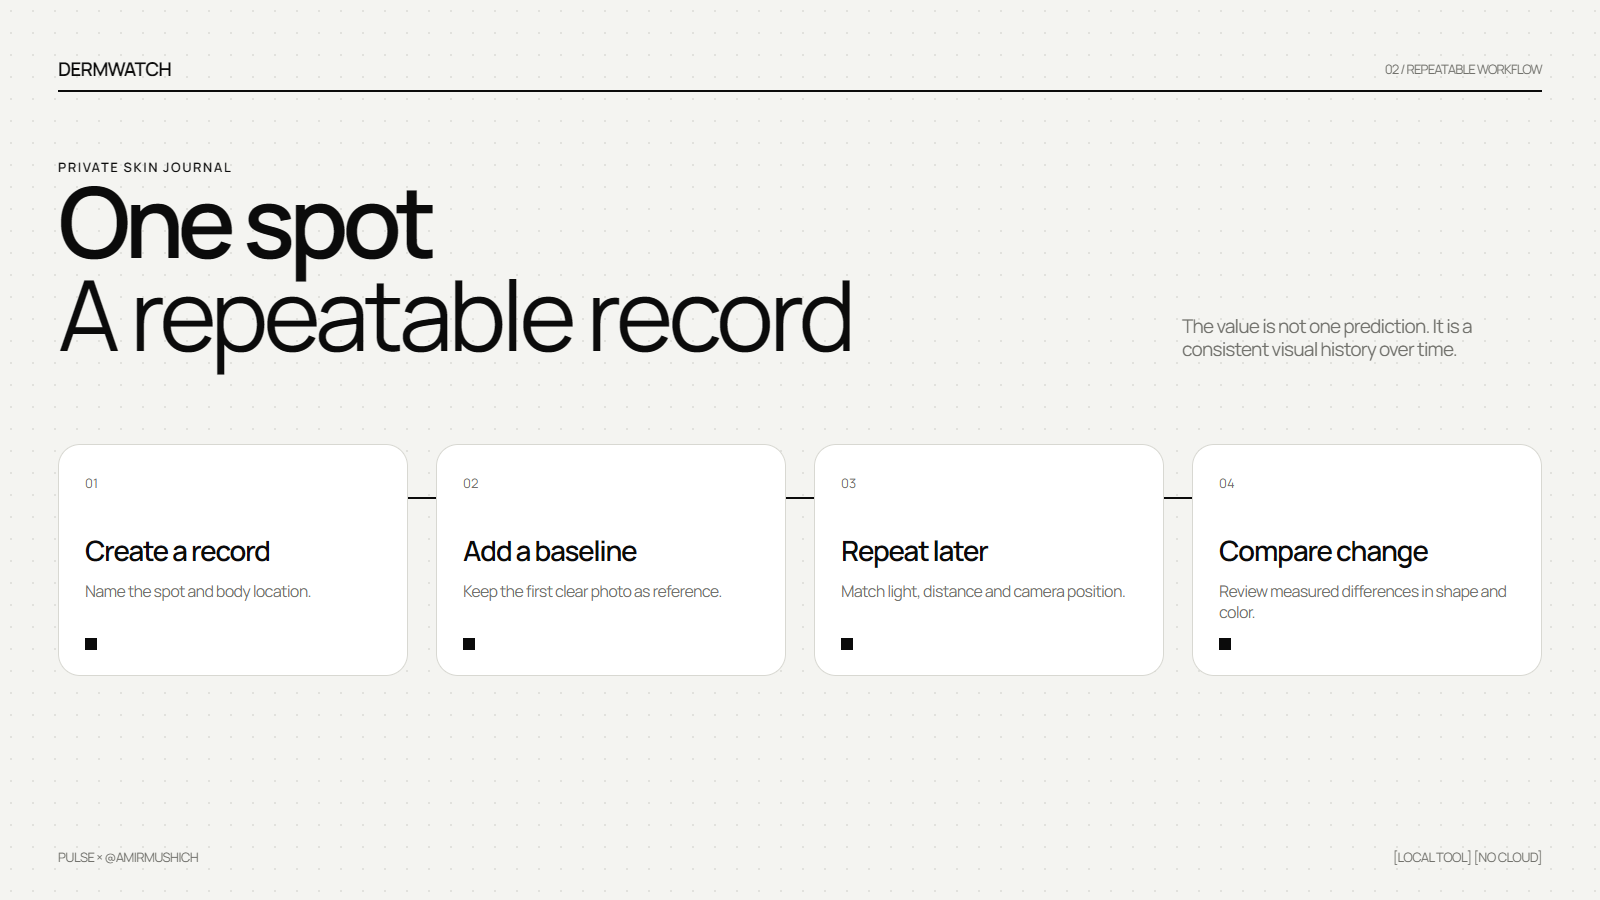
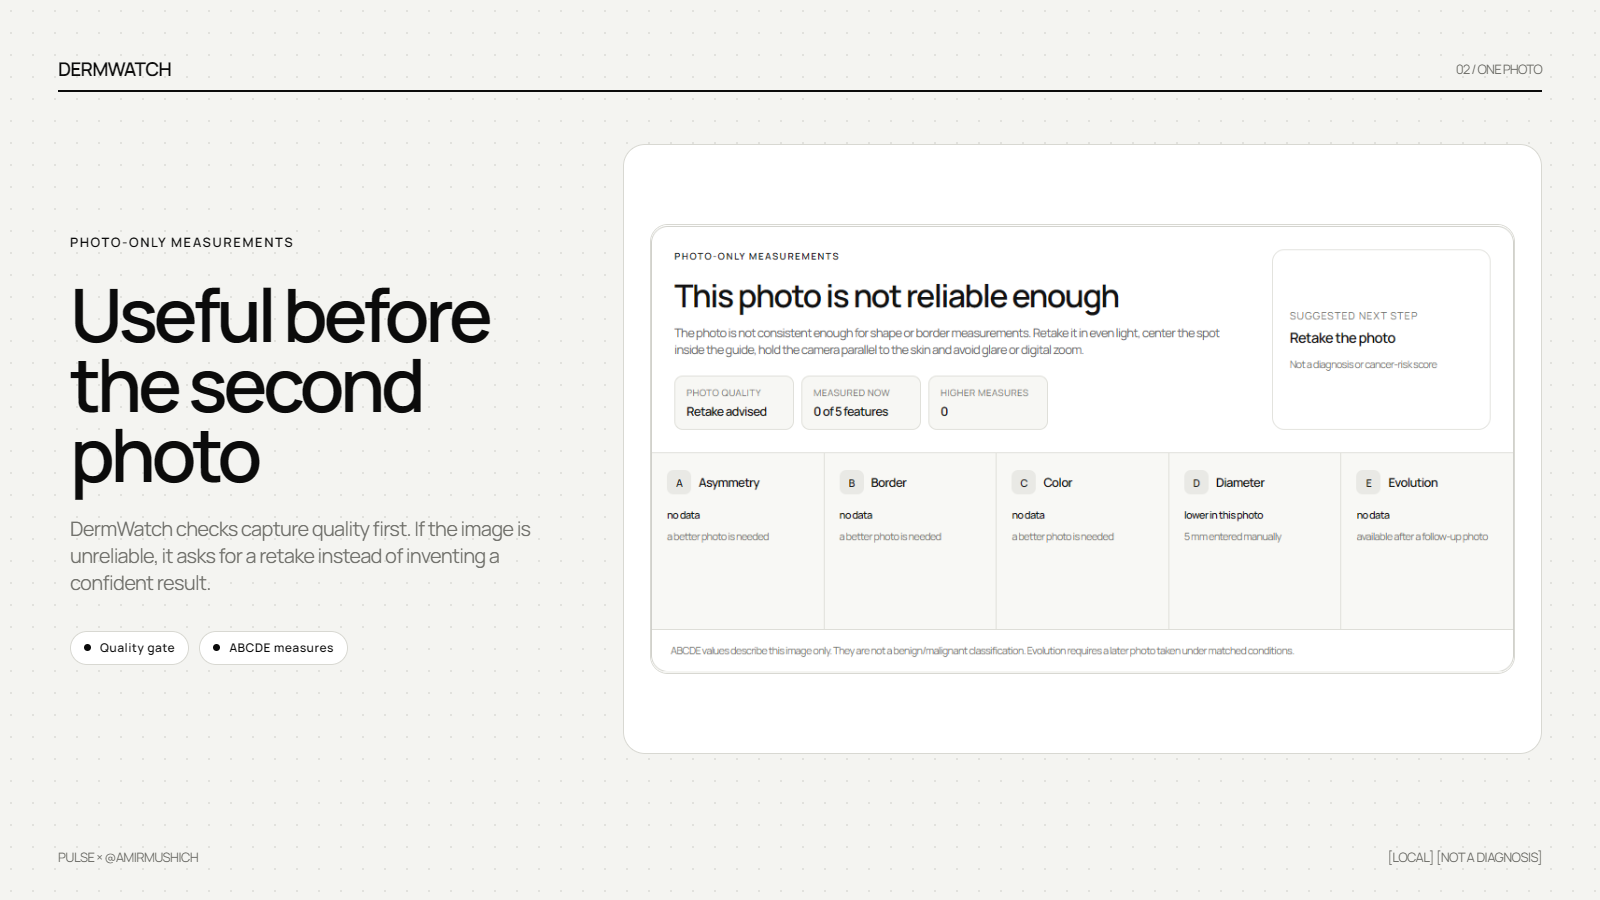
Update launch thread and visuals

diff --git a/docs/launch/visuals/03-transparency.html b/docs/launch/visuals/03-transparency.html
@@ -3,40 +3,31 @@
   <head>
     <meta charset="UTF-8" />
     <link rel="stylesheet" href="shared.css" />
-    <title>DermWatch transparency</title>
+    <title>DermWatch comparison guardrail</title>
     <style>
-      .hero { margin-top: 74px; display: grid; grid-template-columns: 1.45fr 0.75fr; gap: 72px; align-items: start; }
-      .headline { font-size: 108px; }
-      .status { padding: 30px; min-height: 300px; display: flex; flex-direction: column; justify-content: space-between; }
-      .status h2 { font-size: 31px; line-height: 1.05; letter-spacing: -0.05em; }
-      .status p { color: var(--muted); font-size: 17px; line-height: 1.3; letter-spacing: -0.04em; }
-      .truths { margin-top: 70px; display: grid; grid-template-columns: repeat(3, 1fr); border: 1px solid var(--line); border-radius: 22px; overflow: hidden; background: var(--surface); }
-      .truth { min-height: 155px; padding: 26px; border-right: 1px solid var(--line); }
-      .truth:last-child { border-right: 0; }
-      .truth h2 { margin-top: 26px; font-size: 25px; letter-spacing: -0.05em; }
-      .truth p { margin-top: 12px; color: var(--muted); font-size: 15px; line-height: 1.25; letter-spacing: -0.04em; }
+      .content { margin-top: 56px; }
+      .intro { display: flex; justify-content: space-between; align-items: end; }
+      .intro h1 { margin-top: 24px; max-width: 980px; font-size: 78px; line-height: 0.94; letter-spacing: -0.06em; }
+      .intro p { width: 420px; padding-bottom: 7px; color: var(--muted); font-size: 20px; line-height: 1.32; letter-spacing: -0.035em; }
+      .proof { margin-top: 54px; height: 330px; padding: 42px; display: flex; align-items: center; background: var(--surface); }
+      .proof img { width: 100%; height: auto; display: block; border: 1px solid var(--line); border-radius: 18px; }
+      .rule { margin-top: 28px; display: grid; grid-template-columns: repeat(3, 1fr); border-top: 1px solid var(--line); }
+      .rule div { padding-top: 20px; color: var(--muted); font-size: 15px; }
+      .rule strong { display: block; margin-bottom: 8px; color: var(--ink); font-size: 18px; }
     </style>
   </head>
   <body>
     <main class="frame">
-      <header class="topbar"><span>DERMWATCH</span><span class="meta">03 / TECHNICAL TRANSPARENCY</span></header>
-      <section class="hero">
-        <div>
-          <div class="eyebrow">WHAT IT IS — AND ISN'T</div>
-          <h1 class="headline">No hidden AI<br /><span class="accent">Not a cancer test</span></h1>
+      <header class="topbar"><span>DERMWATCH</span><span class="meta">03 / SAFER COMPARISON</span></header>
+      <section class="content">
+        <div class="intro">
+          <div><div class="eyebrow">NO FALSE EVOLUTION</div><h1>Bad photos do not become bad news</h1></div>
+          <p>Change is measured only when capture conditions are comparable enough.</p>
         </div>
-        <article class="card status">
-          <span class="tag">EXPERIMENTAL</span>
-          <h2>Measures visible image features</h2>
-          <p>DermWatch cannot detect or rule out skin cancer. A concerning spot should be assessed by a qualified clinician.</p>
-        </article>
+        <div class="card proof"><img src="assets/comparison-safety.png" alt="DermWatch blocks an unreliable comparison" /></div>
+        <div class="rule"><div><strong>01 Match the spot</strong>Identity check before comparison</div><div><strong>02 Match the capture</strong>Light, angle, distance and sharpness</div><div><strong>03 Compare later</strong>Same-day retakes are not evolution</div></div>
       </section>
-      <section class="truths">
-        <article class="truth"><span class="square"></span><h2>No LLM</h2><p>No text model is involved in photo analysis.</p></article>
-        <article class="truth"><span class="square"></span><h2>No pretrained classifier</h2><p>No medical model or model weights are bundled.</p></article>
-        <article class="truth"><span class="square"></span><h2>Local heuristics</h2><p>Deterministic measurements run on this computer.</p></article>
-      </section>
-      <footer class="footer"><span>PULSE × @AMIRMUSHICH</span><span>NOT A MEDICAL DEVICE</span></footer>
+      <footer class="footer"><span>PULSE × @AMIRMUSHICH</span><span>[RETAKE INSTEAD OF GUESSING]</span></footer>
     </main>
   </body>
 </html>

diff --git a/docs/launch/visuals/02-workflow.html b/docs/launch/visuals/02-workflow.html
@@ -3,37 +3,30 @@
   <head>
     <meta charset="UTF-8" />
     <link rel="stylesheet" href="shared.css" />
-    <title>DermWatch workflow</title>
+    <title>DermWatch single-photo check</title>
     <style>
-      .hero { margin-top: 66px; display: flex; justify-content: space-between; align-items: end; }
-      .headline { max-width: 910px; }
-      .hero-note { width: 360px; color: var(--muted); font-size: 19px; line-height: 1.25; letter-spacing: -0.04em; }
-      .flow { margin-top: 82px; display: grid; grid-template-columns: repeat(4, 1fr); gap: 28px; }
-      .flow-card { position: relative; min-height: 232px; padding: 26px; }
-      .flow-card:not(:first-child)::before { content: ""; position: absolute; left: -29px; top: 52px; width: 28px; height: 2px; background: var(--ink); }
-      .number { color: var(--muted); font-size: 13px; }
-      .flow-card h2 { margin-top: 43px; font-size: 28px; line-height: 1; letter-spacing: -0.05em; }
-      .flow-card p { margin-top: 17px; color: var(--muted); font-size: 16px; line-height: 1.28; letter-spacing: -0.04em; }
-      .flow-card .square { position: absolute; left: 26px; bottom: 25px; }
+      .content { margin-top: 52px; display: grid; grid-template-columns: 0.72fr 1.28fr; gap: 48px; align-items: center; }
+      .copy { padding-left: 12px; }
+      .copy h1 { margin-top: 28px; max-width: 560px; font-size: 74px; line-height: 0.94; letter-spacing: -0.06em; }
+      .copy p { margin-top: 28px; max-width: 520px; color: var(--muted); font-size: 20px; line-height: 1.34; letter-spacing: -0.035em; }
+      .proof { height: 610px; padding: 26px; display: flex; align-items: center; background: var(--surface); }
+      .proof img { width: 100%; height: auto; display: block; border: 1px solid var(--line); border-radius: 18px; }
+      .tags { margin-top: 34px; display: flex; flex-wrap: wrap; gap: 10px; }
     </style>
   </head>
   <body>
     <main class="frame">
-      <header class="topbar"><span>DERMWATCH</span><span class="meta">02 / REPEATABLE WORKFLOW</span></header>
-      <section class="hero">
-        <div>
-          <div class="eyebrow">PRIVATE SKIN JOURNAL</div>
-          <h1 class="headline">One spot<br /><span class="accent">A repeatable record</span></h1>
+      <header class="topbar"><span>DERMWATCH</span><span class="meta">02 / ONE PHOTO</span></header>
+      <section class="content">
+        <div class="copy">
+          <div class="eyebrow">PHOTO-ONLY MEASUREMENTS</div>
+          <h1>Useful before the second photo</h1>
+          <p>DermWatch checks capture quality first. If the image is unreliable, it asks for a retake instead of inventing a confident result.</p>
+          <div class="tags"><span class="tag">Quality gate</span><span class="tag">ABCDE measures</span></div>
         </div>
-        <p class="hero-note">The value is not one prediction. It is a consistent visual history over time.</p>
+        <div class="card proof"><img src="assets/single-photo-result.png" alt="DermWatch single-photo quality result" /></div>
       </section>
-      <section class="flow">
-        <article class="card flow-card"><span class="number">01</span><h2>Create a record</h2><p>Name the spot and body location.</p><span class="square"></span></article>
-        <article class="card flow-card"><span class="number">02</span><h2>Add a baseline</h2><p>Keep the first clear photo as reference.</p><span class="square"></span></article>
-        <article class="card flow-card"><span class="number">03</span><h2>Repeat later</h2><p>Match light, distance and camera position.</p><span class="square"></span></article>
-        <article class="card flow-card"><span class="number">04</span><h2>Compare change</h2><p>Review measured differences in shape and color.</p><span class="square"></span></article>
-      </section>
-      <footer class="footer"><span>PULSE × @AMIRMUSHICH</span><span>[LOCAL TOOL] [NO CLOUD]</span></footer>
+      <footer class="footer"><span>PULSE × @AMIRMUSHICH</span><span>[LOCAL] [NOT A DIAGNOSIS]</span></footer>
     </main>
   </body>
 </html>

diff --git a/docs/launch/visuals/04-open-source.html b/docs/launch/visuals/04-open-source.html
@@ -24,8 +24,8 @@
         <div class="copy">
           <div>
             <div class="eyebrow">WINDOWS + MACOS + ANDROID / MIT LICENSE</div>
-            <h1>Open<br />Local<br /><span class="accent">Free</span></h1>
-            <p>Choose your platform. Keep the photo history on your device. Inspect the source on GitHub.</p>
+            <h1>Three<br />platforms<br /><span class="accent">One local record</span></h1>
+            <p>Windows, macOS and Android. Keep the photo history on your device and inspect the source on GitHub.</p>
           </div>
           <div class="cta"><strong>github.com/amirmushichge/dermwatch</strong><span>DOWNLOAD. RUN LOCALLY. BUILD A REPEATABLE RECORD_</span></div>
         </div>

diff --git a/docs/launch/THREAD_RU.md b/docs/launch/THREAD_RU.md
@@ -1,57 +1,57 @@
-# DermWatch launch thread — Russian review copy
+# DermWatch launch thread — Russian publication copy
 
-The main product-demo video is attached to post 1. Static visuals are paired
-with posts 2–4.
+Публикуйте как цепочку из четырёх постов. К первому посту прикрепите готовую
+видеодемонстрацию, к постам 2–4 — указанные изображения.
 
-## Post 1 — hook + video demo
+## Пост 1 — боль, решение и видео
 
-Одна родинка → повторяемая история изменений на вашем устройстве.
+Большинство людей фотографируют родинку один раз — а через месяц не помнят, изменилась ли она.
 
-DermWatch сохраняет базовый снимок, помогает повторить фото позже и показывает
-измеримые визуальные различия.
+DermWatch превращает отдельные снимки в локальную историю: сохраняет базовое фото, помогает повторить кадр и сравнивает изменения.
 
-[LOCAL APP] [NO CLOUD]
+Windows, macOS и Android. Без аккаунта и облака.
 
-Video: main product demonstration.
+Медиа: готовая видеодемонстрация.
 
-## Post 2 — workflow
+## Пост 2 — польза одного фото
 
-Workflow:
+Польза есть уже после одного фото.
 
-> создать карточку
-> добавить базовое фото
-> повторить снимок позже
-> сравнить форму, границу и цвет
+DermWatch сначала проверяет качество кадра, затем показывает фото-измерения формы, границы, цвета и введённого размера.
 
-Фото остаются на устройстве. Без аккаунта и облачной загрузки.
+Если снимок ненадёжный — просит переснять, а не придумывает уверенный результат.
 
-Visual: `02-workflow.png`.
+Медиа: `visuals/02-workflow.png`.
 
-## Post 3 — transparent limitations
+## Пост 3 — защита от ложной динамики
 
-Честное ограничение: DermWatch не выявляет и не исключает рак кожи или
-меланому. Он не может подтвердить, что родинка доброкачественная.
+Второй снимок нужен для динамики — но только если условия сопоставимы.
 
-Внутри нет LLM или готовой медицинской нейросети — только локальные эвристики
-компьютерного зрения.
+Приложение сверяет родинку, свет, угол, расстояние и резкость. Снимки в один день считает пересъёмкой, а плохое сравнение блокирует.
 
-Новая, растущая, зудящая или кровоточащая родинка → к врачу.
+Так меньше ложных «ухудшений» из-за камеры.
 
-Visual: `03-transparency.png`.
+Медиа: `visuals/03-transparency.png`.
 
-## Post 4 — open-source CTA and credits
+## Пост 4 — платформы, безопасность и авторство
 
-Free + open source.
+Бесплатно и open source
 
-Windows + macOS + Android: https://github.com/amirmushichge/dermwatch/releases/latest
-Source: https://github.com/amirmushichge/dermwatch
+Windows + macOS + Android
+https://github.com/amirmushichge/dermwatch/releases/latest
 
-Адаптация: [@youraipulse](https://x.com/youraipulse) ×
-[@AmirMushich](https://x.com/AmirMushich).
+Локально. Без аккаунта. Не выявляет рак кожи. Не диагноз и не cancer-risk score
 
-Идея вдохновлена исследовательским проектом OpenDerm от
-[@marionlepert](https://x.com/marionlepert).
+Адаптация: @youraipulse × @AmirMushich
+Вдохновлено OpenDerm / @marionlepert
 
-Download. Run locally. Keep a repeatable record_
+Медиа: `visuals/04-open-source.png`.
 
-Visual: `04-open-source.png`.
+## Важное примечание
+
+DermWatch не выявляет и не исключает рак кожи или меланому и не подтверждает,
+что родинка доброкачественная. Новое, меняющееся, зудящее или кровоточащее
+образование следует показать врачу.
+
+Демонстрационный снимок в материалах — фрагмент изображения National Cancer
+Institute из общественного достояния, опубликованного на Wikimedia Commons.

diff --git a/docs/launch/THREAD_EN.md b/docs/launch/THREAD_EN.md
@@ -1,57 +1,58 @@
 # DermWatch launch thread — English publication copy
 
-Attach the main product-demo video to post 1. Pair posts 2–4 with the static
-visuals listed below.
+Publish as a four-post thread. Attach the finished product demo to post 1 and
+the listed images to posts 2–4.
 
-## Post 1 — demo
+## Post 1 — pain, solution and video
 
-One mole → a repeatable history of visible changes on your device.
+Most people photograph a mole once — then a month later they cannot remember what changed.
 
-DermWatch saves a baseline photo, helps you repeat the shot later, and measures
-visible differences.
+DermWatch turns separate photos into a local history: save a baseline, repeat the shot and review visible differences.
 
-[LOCAL APP] [NO CLOUD]
+Windows, macOS and Android. No account or cloud upload.
 
-Demo below_
+Media: finished product demo video.
 
-## Post 2 — workflow
+## Post 2 — value from one photo
 
-The workflow:
+You get useful feedback from the first photo.
 
-> create a record
-> add a baseline photo
-> repeat the shot later
-> compare shape, border, and color
+DermWatch checks capture quality, then shows photo-only measures for shape, border, color and entered size.
 
-No account. No cloud upload. Photos stay on your device.
+If the image is unreliable, it asks for a retake instead of inventing a confident result.
 
-Visual: `02-workflow.png`.
+Media: `visuals/02-workflow.png`.
 
-## Post 3 — limitations
+## Post 3 — guardrails against false change
 
-The honest limitation: DermWatch does not detect or rule out skin cancer or
-melanoma. It cannot confirm that a spot is benign.
+A second photo is useful only when the capture conditions are comparable.
 
-There is no LLM or pretrained medical model inside — only experimental local
-computer-vision heuristics.
+The app checks spot identity, light, angle, distance and sharpness. Same-day shots are treated as retakes, and unreliable comparisons are blocked.
 
-New, growing, itching, or bleeding spot → see a clinician.
+That means fewer false “worse” results caused by the camera.
 
-Visual: `03-transparency.png`.
+Media: `visuals/03-transparency.png`.
 
-## Post 4 — download and credits
+## Post 4 — platforms, safety and credits
 
-Free + open source.
+Free and open source
 
-Windows + macOS + Android:
+Windows + macOS + Android
 https://github.com/amirmushichge/dermwatch/releases/latest
 
-Adaptation: [@youraipulse](https://x.com/youraipulse) ×
-[@AmirMushich](https://x.com/AmirMushich)
+Local. No account. Not a diagnosis or cancer-risk score
 
-Inspired by OpenDerm from
-[@marionlepert](https://x.com/marionlepert).
+Adaptation: @youraipulse × @AmirMushich
+Inspired by OpenDerm / @marionlepert
 
-Download. Run locally. Keep a repeatable record_
+Media: `visuals/04-open-source.png`.
 
-Visual: `04-open-source.png`.
+## Important note
+
+DermWatch does not detect or rule out skin cancer or melanoma and cannot confirm
+that a spot is benign. New, changing, itching or bleeding spots should be
+assessed by a qualified clinician.
+
+The demonstration photo is cropped from a National Cancer Institute
+public-domain image published on Wikimedia Commons.
+

diff --git a/docs/launch/README.md b/docs/launch/README.md
@@ -3,8 +3,8 @@
 The launch thread is prepared as four posts:
 
 1. product-demo video and the concrete user value;
-2. repeatable local workflow with `visuals/02-workflow.png`;
-3. technical and medical limitations with `visuals/03-transparency.png`;
+2. useful single-photo quality feedback with `visuals/02-workflow.png`;
+3. comparison guardrails that block unreliable change with `visuals/03-transparency.png`;
 4. Windows, macOS, and Android download, credits, and CTA with
    `visuals/04-open-source.png`.
 
@@ -15,3 +15,8 @@ publication copy is in [`THREAD_EN.md`](THREAD_EN.md). Release notes are in
 
 Before publication, review the Russian and English copy, attach the main demo
 video to post 1, and pair posts 2–4 with their static visuals.
+
+The product screenshots in posts 2 and 3 were captured from v0.2.6 using a
+temporary demo profile. The mole photo is cropped from the public-domain
+National Cancer Institute image
+[`Normal mole (1)`](https://commons.wikimedia.org/wiki/File:Normal_mole_(1).jpg).
